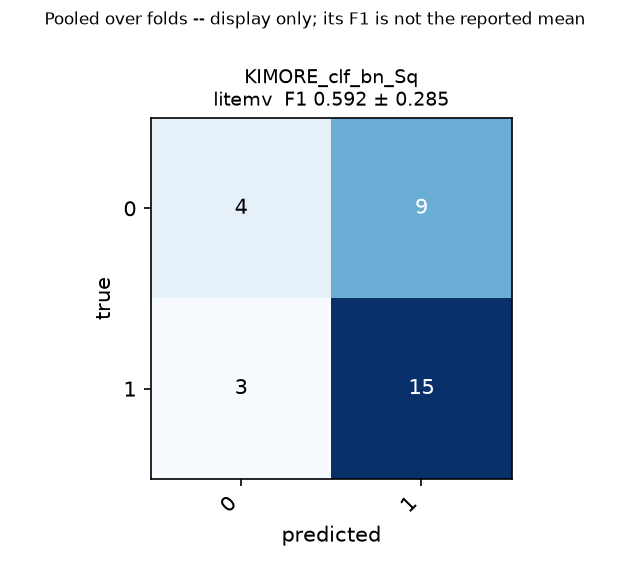
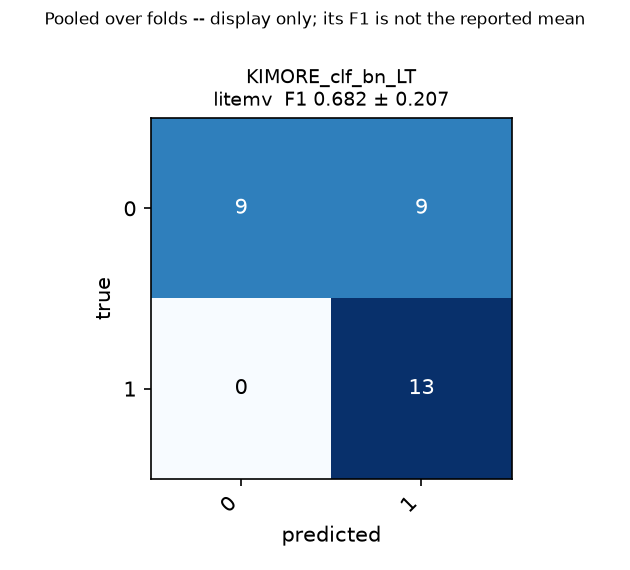
Track A: record the 28 Jul rerun, which extends LITEMV to 3 datasets
The rerun changed the headline slightly -- MiniRocket 1.63 -> 1.65 mean rank,
RF-summary 12 -> 11 wins -- and added two more datasets to the LITEMV column.
Committing the outputs so the numbers quoted in the docs have a source in the
repo rather than in an uncommitted working file.

diff --git a/reports/masar_a_results.md b/reports/masar_a_results.md
@@ -4,11 +4,11 @@
 
 | model | mean rank | wins | mean macro_f1_mean | median | datasets |
 |---|---|---|---|---|---|
-| minirocket | **1.63** | 25 | 0.684 | 0.670 | 39 |
-| litemv | **2.00** | 0 | 0.592 | 0.592 | 1 |
-| rf_summary | **2.14** | 12 | 0.610 | 0.583 | 39 |
-| rf_flatten | **2.73** | 6 | 0.528 | 0.535 | 39 |
-| majority | **3.58** | 4 | 0.379 | 0.333 | 39 |
+| minirocket | **1.65** | 25 | 0.684 | 0.670 | 39 |
+| rf_summary | **2.17** | 11 | 0.610 | 0.583 | 39 |
+| litemv | **2.67** | 1 | 0.582 | 0.592 | 3 |
+| rf_flatten | **2.76** | 6 | 0.528 | 0.535 | 39 |
+| majority | **3.60** | 4 | 0.379 | 0.333 | 39 |
 
 Mean rank, not mean score. Test folds here hold 6-14 samples, so a per-fold score can swing on sampling alone, and averaging raw scores would let a dataset where everything scores 0.9 outweigh one where everything scores 0.4. Ranking is the standard presentation in the time-series-classification literature for exactly this reason. `wins` counts datasets where a model tied or took the top score.
 
@@ -20,7 +20,7 @@ Mean rank, not mean score. Test folds here hold 6-14 samples, so a per-fold scor
 |---|---|---|---|---|---|---|
 | IRDS | 9 | -- | 0.406 | 0.652 | 0.461 | 0.497 |
 | KERAAL | 6 | -- | 0.431 | 0.554 | 0.446 | 0.566 |
-| KIMORE | 5 | 0.592 | 0.392 | 0.614 | 0.505 | 0.530 |
+| KIMORE | 5 | 0.582 | 0.392 | 0.614 | 0.505 | 0.530 |
 | KINECAL | 4 | -- | 0.480 | 0.500 | 0.480 | 0.480 |
 | SPHERE | 1 | -- | 0.311 | 0.846 | 0.555 | 0.715 |
 | UCDHE | 4 | -- | 0.259 | 0.744 | 0.602 | 0.586 |
@@ -36,6 +36,7 @@ Mean rank, not mean score. Test folds here hold 6-14 samples, so a per-fold scor
 | rf_flatten | 0.607 ± 0.323 | 0.607 ± 0.323 | 0.700 ± 0.245 | 0.719 ± 0.242 | 0.300 1.000 0.400 0.333 1.000 |
 | rf_summary | 0.607 ± 0.323 | 0.607 ± 0.323 | 0.700 ± 0.245 | 0.719 ± 0.242 | 0.300 1.000 0.400 0.333 1.000 |
 | minirocket | 0.610 ± 0.222 | 0.701 ± 0.232 | 0.717 ± 0.194 | 0.743 ± 0.167 | 0.708 0.455 0.400 0.486 1.000 |
+| litemv | 0.473 ± 0.265 | 0.540 ± 0.264 | 0.600 ± 0.200 | 0.619 ± 0.206 | 0.300 0.333 0.400 0.333 1.000 |
 
 ## KIMORE_clf_bn_LT
 
@@ -45,6 +46,11 @@ Mean rank, not mean score. Test folds here hold 6-14 samples, so a per-fold scor
 | rf_flatten | 0.352 ± 0.225 | 0.352 ± 0.225 | 0.467 ± 0.194 | 0.391 ± 0.230 | 0.222 0.625 0.143 0.143 0.625 |
 | rf_summary | 0.457 ± 0.158 | 0.457 ± 0.158 | 0.573 ± 0.139 | 0.519 ± 0.132 | 0.300 0.625 0.250 0.486 0.625 |
 | minirocket | 0.420 ± 0.227 | 0.420 ± 0.227 | 0.435 ± 0.214 | 0.476 ± 0.205 | 0.708 0.667 0.143 0.333 0.250 |
+| litemv | 0.682 ± 0.207 | 0.682 ± 0.207 | 0.760 ± 0.131 | 0.719 ± 0.159 | 0.300 0.829 0.829 0.625 0.829 |
+
+Pooled per-class F1 for `litemv`: 0=0.667, 1=0.743
+
+The reported number is the **mean over folds with its standard deviation**. The pooled confusion matrix below is for display only; the macro-F1 computed from it is a different quantity. A large std measures how much the score depends on which subjects were held out.
 
 ## KIMORE_clf_bn_PR
 
